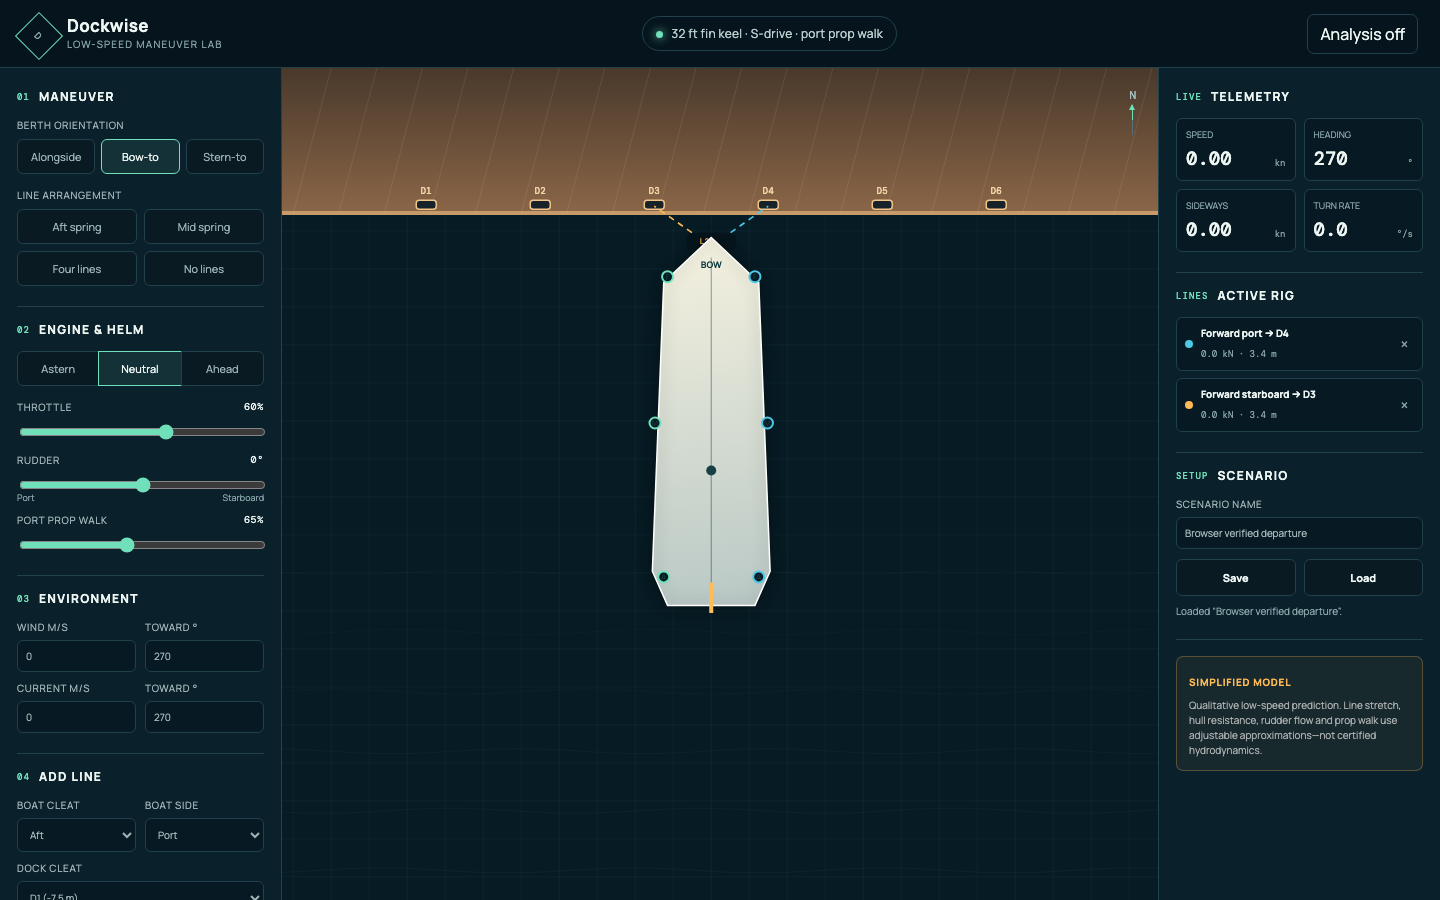
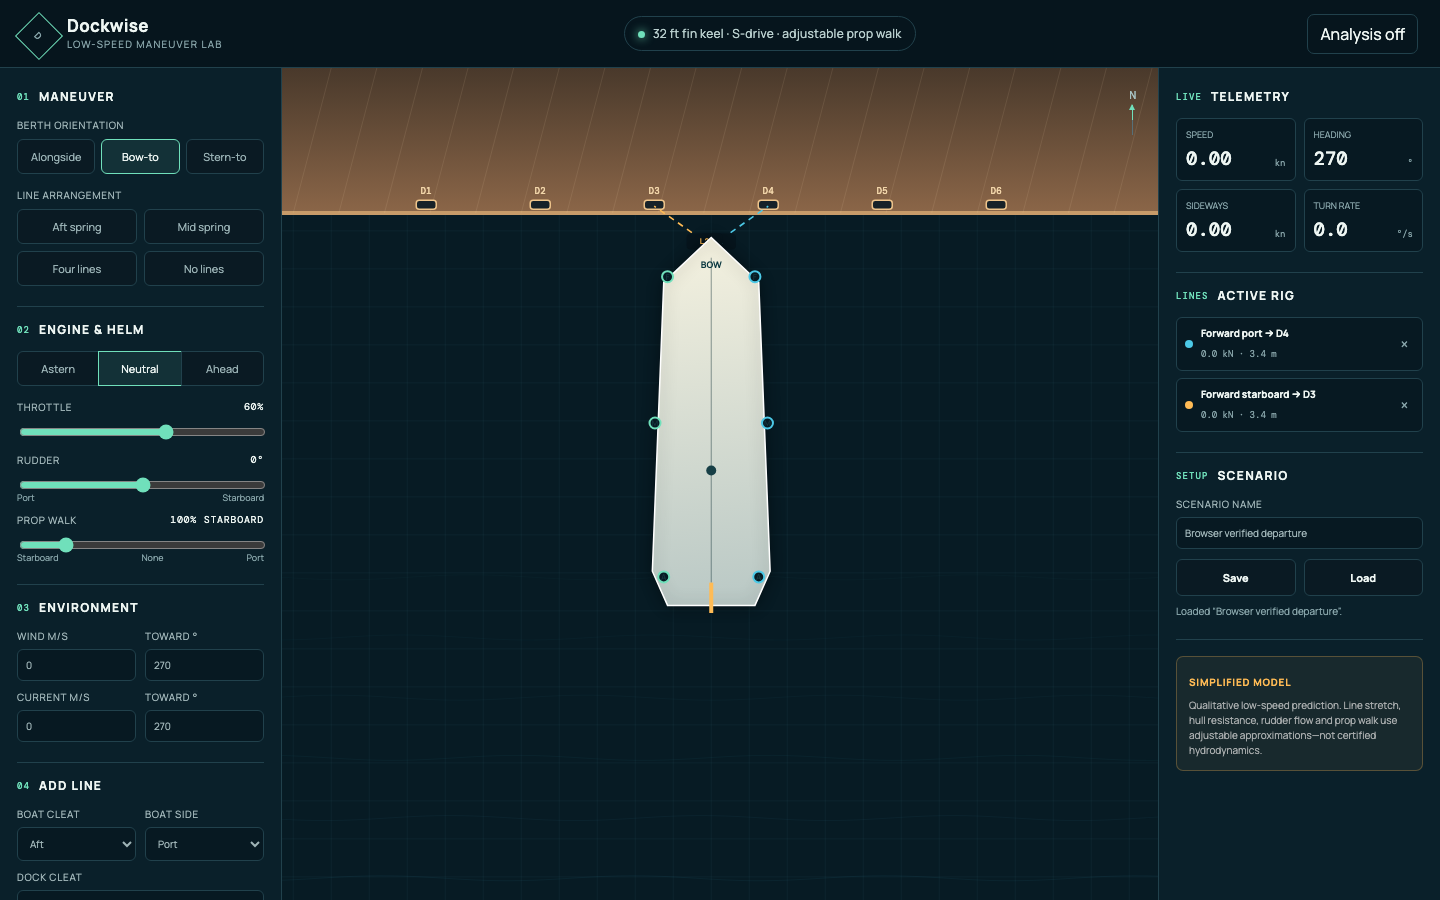
Make prop walk direction adjustable

diff --git a/index.html b/index.html
@@ -13,7 +13,7 @@
       <span class="brand-mark" aria-hidden="true">D</span>
       <div><strong>Dockwise</strong><span>Low-speed maneuver lab</span></div>
     </div>
-    <div class="model-pill"><span class="status-dot"></span>32 ft fin keel · S-drive · port prop walk</div>
+    <div class="model-pill"><span class="status-dot"></span>32 ft fin keel · S-drive · adjustable prop walk</div>
     <button id="analysisToggle" class="ghost-button" type="button" aria-pressed="true">Analysis on</button>
   </header>
 
@@ -46,7 +46,8 @@
         <label class="range-row" for="throttle"><span>Throttle <output id="throttleValue">45%</output></span><input id="throttle" type="range" min="0" max="100" value="45"></label>
         <label class="range-row" for="rudder"><span>Rudder <output id="rudderValue">0°</output></span><input id="rudder" type="range" min="-35" max="35" value="0"></label>
         <div class="direction-labels"><span>Port</span><span>Starboard</span></div>
-        <label class="range-row compact" for="propWalk"><span>Port prop walk <output id="propWalkValue">65%</output></span><input id="propWalk" type="range" min="0" max="150" value="65"></label>
+        <label class="range-row compact" for="propWalk"><span>Prop walk <output id="propWalkValue">65% port</output></span><input id="propWalk" type="range" min="-150" max="150" value="65"></label>
+        <div class="direction-labels prop-walk-labels"><span>Starboard</span><span>None</span><span>Port</span></div>
       </section>
 
       <section>

diff --git a/src/app.js b/src/app.js
@@ -146,7 +146,10 @@ function updateRangeOutputs() {
   $('#throttleValue').textContent = `${controls.throttle.value}%`;
   const rudder = Number(controls.rudder.value);
   $('#rudderValue').textContent = `${rudder > 0 ? '+' : ''}${rudder}°`;
-  $('#propWalkValue').textContent = `${controls.propWalk.value}%`;
+  const propWalk = Number(controls.propWalk.value);
+  $('#propWalkValue').textContent = propWalk === 0
+    ? 'None'
+    : `${Math.abs(propWalk)}% ${propWalk > 0 ? 'port' : 'starboard'}`;
   $('#lineSlackValue').textContent = `${$('#lineSlack').value}%`;
 }
 
@@ -338,7 +341,7 @@ function drawArrow(fromWorld, force, color, label) {
 function drawForces() {
   if (!analysis) return;
   const forceSet = computeForces(state, currentControls());
-  const palette = { 'Engine thrust': '#70e0bb', 'Port prop walk': '#ffbb55', Rudder: '#ff8f6b', Wind: '#a88cff', 'Hull resistance': '#6d9299' };
+  const palette = { 'Engine thrust': '#70e0bb', 'Port prop walk': '#ffbb55', 'Starboard prop walk': '#ffbb55', Rudder: '#ff8f6b', Wind: '#a88cff', 'Hull resistance': '#6d9299' };
   for (const record of forceSet.records) {
     if (record.name.startsWith('Line')) continue;
     drawArrow(record.point, record.force, palette[record.name] || '#d6e0df', record.name);

diff --git a/src/physics.js b/src/physics.js
@@ -124,7 +124,7 @@ export function computeForces(state, controls = {}) {
   const engine = Math.max(-1, Math.min(1, Number(controls.engine || 0)));
   const throttle = Math.max(0, Math.min(1, Number(controls.throttle || 0)));
   const rudderDeg = Math.max(-40, Math.min(40, Number(controls.rudderDeg || 0)));
-  const propWalk = Math.max(0, Math.min(2, Number(controls.propWalk ?? 0.65)));
+  const propWalk = Math.max(-2, Math.min(2, Number(controls.propWalk ?? 0.65)));
   const records = [];
   const lineResults = [];
   let totalForce = { x: 0, y: 0 };
@@ -141,8 +141,9 @@ export function computeForces(state, controls = {}) {
   if (engine !== 0 && throttle > 0) {
     const thrust = engine * throttle * 3400;
     apply('Engine thrust', { x: -1.25, y: 0 }, { x: thrust, y: 0 });
-    if (engine < 0 && propWalk > 0) {
-      apply('Port prop walk', { x: -1.25, y: 0 }, { x: 0, y: -1100 * throttle * propWalk });
+    if (engine < 0 && Math.abs(propWalk) > 0) {
+      const direction = propWalk > 0 ? 'Port' : 'Starboard';
+      apply(`${direction} prop walk`, { x: -1.25, y: 0 }, { x: 0, y: -1100 * throttle * propWalk });
     }
   }
 

diff --git a/tests/physics.test.js b/tests/physics.test.js
@@ -101,6 +101,14 @@ test('reverse thrust adds port-side prop walk', () => {
   assert.ok(forces.force.y < 0, 'port prop walk should push toward local port');
 });
 
+test('negative prop-walk setting reverses the effect toward starboard', () => {
+  const state = createInitialState({ x: 0, y: 0, heading: 0 });
+  const forces = computeForces(state, { lines: [], engine: -1, throttle: 1, rudderDeg: 0, propWalk: -1, wind: { speed: 0, directionDeg: 0 }, current: { speed: 0, directionDeg: 0 } });
+  assert.ok(forces.force.x < 0, 'reverse thrust should still push astern');
+  assert.ok(forces.force.y > 0, 'negative prop walk should push toward local starboard');
+  assert.ok(forces.records.some((record) => record.name === 'Starboard prop walk'));
+});
+
 test('rudder creates opposite lateral force for opposite helm angles when moving ahead', () => {
   const portHelm = createInitialState({ vx: 1 });
   const starboardHelm = createInitialState({ vx: 1 });

diff --git a/README.md b/README.md
@@ -19,7 +19,7 @@ Open [http://127.0.0.1:4173](http://127.0.0.1:4173).
 
 1. Choose **Alongside**, **Bow-to**, or **Stern-to**. End-on modes start perpendicular to the quay with mirrored port/starboard line pairs.
 2. Select a line preset or connect your own lines between the aft, middle, or forward boat cleat, its port/starboard side, and dock cleats D1–D6.
-3. Select **Astern**, **Neutral**, or **Ahead**, then set throttle and rudder.
+3. Select **Astern**, **Neutral**, or **Ahead**, then set throttle and rudder. Set **Prop walk** toward port or starboard, or center it at **None**; the 65% port setting matches the default boat profile.
 4. Optionally set wind/current speed and the direction each vector moves **toward**.
 5. Press **Run**, **Pause**, **Step**, or **Reset** and watch the boat, force vectors, line tensions, telemetry, and warnings.
 6. Release a line with its × button or save/load the full scenario locally.

diff --git a/docs/acceptance.md b/docs/acceptance.md
@@ -8,7 +8,7 @@
 
 Command: `npm test`
 
-Result: **PASS — 16/16 tests**
+Result: **PASS — 17/17 tests**
 
 Covered behavior:
 
@@ -20,7 +20,7 @@ Covered behavior:
 - slack and taut line forces
 - line overload detection
 - spring-line yaw moment
-- reverse thrust and port prop walk
+- reverse thrust with adjustable port or starboard prop walk
 - opposite rudder directions while moving
 - rudder response to ahead prop wash from rest
 - fixed-step rigid-body integration
@@ -44,6 +44,7 @@ Verified:
 - four-line preset creates four model and UI lines
 - astern command moves the boat backward
 - port prop walk moves the boat toward local port in reverse
+- starboard prop walk reverses the lateral motion and displays the selected direction
 - ahead command advances the boat
 - run/pause advances and stops simulation time
 - scenario save/load restores four lines and its name
